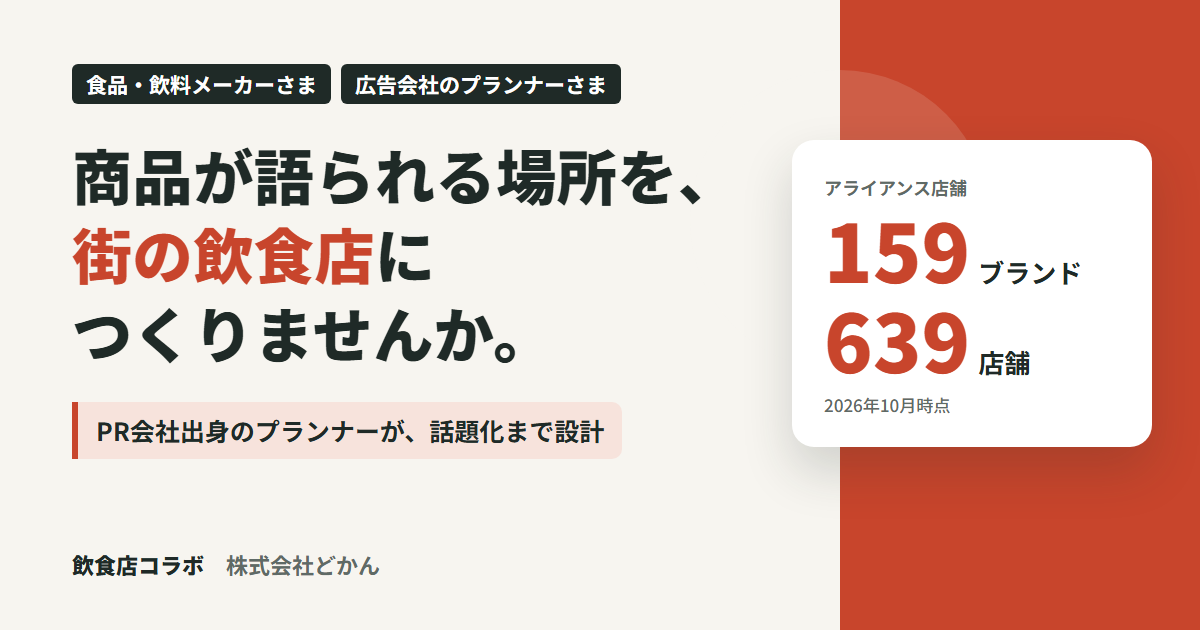
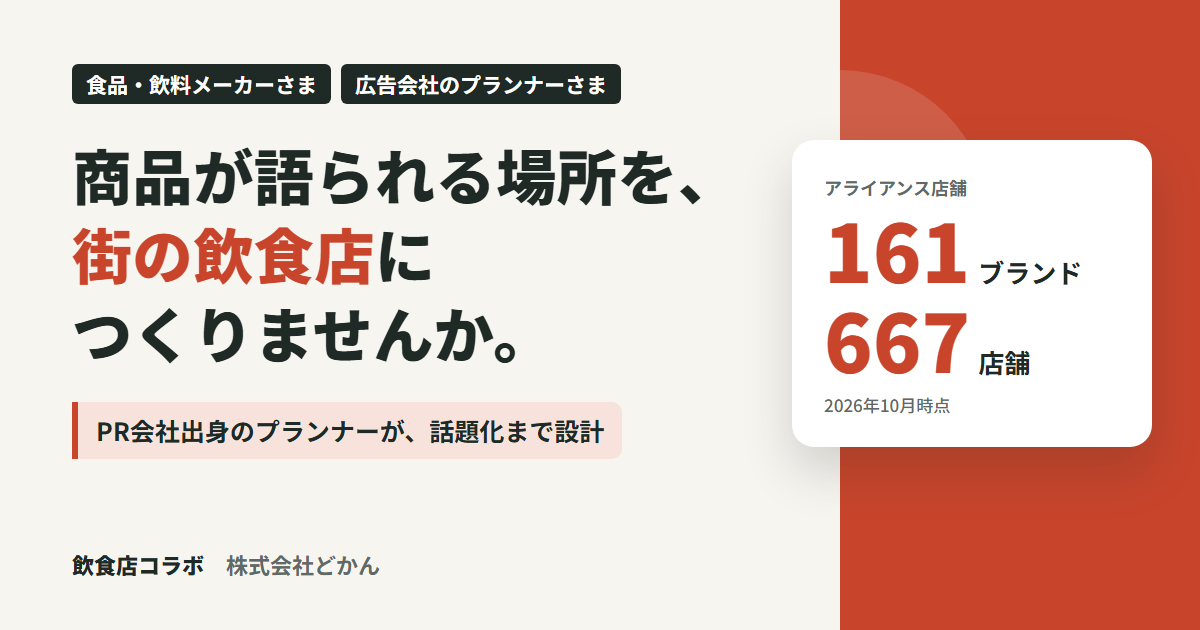
企業・広告会社向けLP：店舗数を最新（161ブランド・667店舗）に更新、日本一のハンバーガー店を店舗例に追加、OGP画像も差し替え

Changed region(s): [[0.7092, 0.4825, 0.8325, 0.6032], [0.7092, 0.3619, 0.8325, 0.4524]]

diff --git a/collabo/partner/index.html b/collabo/partner/index.html
@@ -5,20 +5,20 @@
 <meta name="viewport" content="width=device-width, initial-scale=1">
 <title>飲食店コラボのご案内（企業・広告会社のみなさまへ）｜株式会社どかん</title>
 <meta name="robots" content="noindex, nofollow, noarchive">
-<meta name="description" content="159ブランド・639店舗の飲食店ネットワークで、話題になるコラボメニューを。PR会社出身で、メディアやSNSでの話題づくりを熟知したプランナーが、店舗選びから企画、店舗との調整、発信までを設計します。">
+<meta name="description" content="161ブランド・667店舗の飲食店ネットワークで、話題になるコラボメニューを。PR会社出身で、メディアやSNSでの話題づくりを熟知したプランナーが、店舗選びから企画、店舗との調整、発信までを設計します。">
 <meta property="og:type" content="website">
 <meta property="og:site_name" content="株式会社どかん">
 <meta property="og:title" content="飲食店コラボのご案内（企業・広告会社のみなさまへ）｜株式会社どかん">
-<meta property="og:description" content="159ブランド・639店舗の飲食店ネットワークで、話題になるコラボメニューを。PR会社出身のプランナーが、企画から発信まで設計します。">
+<meta property="og:description" content="161ブランド・667店舗の飲食店ネットワークで、話題になるコラボメニューを。PR会社出身のプランナーが、企画から発信まで設計します。">
 <meta property="og:url" content="https://www.docaninc.com/collabo/partner/">
 <meta property="og:image" content="https://www.docaninc.com/collabo/partner/ogp.png">
 <meta property="og:image:width" content="1200">
 <meta property="og:image:height" content="630">
-<meta property="og:image:alt" content="商品が語られる場所を、街の飲食店につくりませんか。159ブランド・639店舗のアライアンス店舗。PR会社出身のプランナーが、話題化まで設計">
+<meta property="og:image:alt" content="商品が語られる場所を、街の飲食店につくりませんか。161ブランド・667店舗のアライアンス店舗。PR会社出身のプランナーが、話題化まで設計">
 <meta property="og:locale" content="ja_JP">
 <meta name="twitter:card" content="summary_large_image">
 <meta name="twitter:title" content="飲食店コラボのご案内（企業・広告会社のみなさまへ）｜株式会社どかん">
-<meta name="twitter:description" content="159ブランド・639店舗の飲食店ネットワークで、話題になるコラボメニューを。PR会社出身のプランナーが設計します。">
+<meta name="twitter:description" content="161ブランド・667店舗の飲食店ネットワークで、話題になるコラボメニューを。PR会社出身のプランナーが設計します。">
 <meta name="twitter:image" content="https://www.docaninc.com/collabo/partner/ogp.png">
 <link rel="icon" href="/favicon.ico" sizes="any">
 <link rel="icon" href="/favicon.png" type="image/png">
@@ -178,7 +178,7 @@
   .arrow span { font-size: 11px; font-weight: 700; text-align: center; line-height: 1.4; }
 
   /* shops */
-  .shop-grid { display: grid; grid-template-columns: repeat(4, 1fr); gap: 14px; }
+  .shop-grid { display: grid; grid-template-columns: repeat(3, 1fr); gap: 14px; }
   .shop { background: var(--bg); border: 1px solid var(--line); border-top: 4px solid var(--accent); border-radius: var(--radius); padding: 18px 18px 20px; }
   .shop-kind { display: inline-block; font-size: 12px; font-weight: 700; color: var(--sub); background: var(--sub-soft); padding: 2px 10px; border-radius: 999px; }
   .shop h3 { margin: 10px 0 0; font-size: 16px; line-height: 1.55; }
@@ -316,7 +316,7 @@
         <div class="for-whom"><span>食品・飲料メーカーさま</span><span>広告会社のプランナーさま</span></div>
         <h1><span class="nw">商品が語られる場所を、</span><br><span class="nw"><em>街の飲食店</em>に</span><span class="nw">つくりませんか。</span></h1>
         <p class="hero-planner"><b>PR会社出身で、メディアやSNSでの話題づくりを熟知したプランナー</b>が設計します。</p>
-        <p>どかんは、159ブランド・639店舗の飲食店とアライアンスを組んでいます。コラボメニューで商品を「食べて体験できる」形にし、店舗選びから企画、店舗との調整、メディア・SNSでの発信までをまとめてお引き受けします。</p>
+        <p>どかんは、161ブランド・667店舗の飲食店とアライアンスを組んでいます。コラボメニューで商品を「食べて体験できる」形にし、店舗選びから企画、店舗との調整、メディア・SNSでの発信までをまとめてお引き受けします。</p>
         <div class="hero-actions">
           <a class="btn" href="#contact">相談してみる</a>
           <a class="btn ghost" href="#how">しくみを見る</a>
@@ -324,8 +324,8 @@
       </div>
       <div class="stat-card" aria-label="アライアンス店舗の規模">
         <div class="label">アライアンスを組んでいる飲食店</div>
-        <div class="stat-row"><b>159</b><span>ブランド</span></div>
-        <div class="stat-row"><b>639</b><span>店舗</span></div>
+        <div class="stat-row"><b>161</b><span>ブランド</span></div>
+        <div class="stat-row"><b>667</b><span>店舗</span></div>
         <p class="stat-note">2026年10月時点。2,000店舗に向けて拡大中</p>
         <hr>
         <div class="label">業態の例</div>
@@ -404,6 +404,7 @@
       <div class="shop-grid">
         <div class="shop"><span class="shop-kind">レストラン</span><h3>有名シェフがプロデュースするお店</h3></div>
         <div class="shop"><span class="shop-kind">ラーメン</span><h3>1か月に約6万人が来店するラーメン店</h3></div>
+        <div class="shop"><span class="shop-kind">ハンバーガー</span><h3>日本一に輝いたことのある、約30店舗のハンバーガー店</h3></div>
         <div class="shop"><span class="shop-kind">お好み焼き</span><h3>有名お好み焼きチェーン</h3></div>
         <div class="shop"><span class="shop-kind">スイーツ</span><h3>若年層に人気のアイスクリーム店</h3></div>
         <div class="shop"><span class="shop-kind">おにぎり</span><h3>1日に3,000人が訪れることもあるおにぎり店</h3></div>
@@ -456,7 +457,7 @@
         </div>
         <div class="reason">
           <div class="num">2</div>
-          <h3>159ブランド・639店舗から、合うお店を選べる</h3>
+          <h3>161ブランド・667店舗から、合うお店を選べる</h3>
           <p>カフェからラーメン、居酒屋まで、さまざまな業態の飲食店とアライアンスを組んでいます。商品やねらう客層、エリアに合わせてお店をご提案します。</p>
         </div>
         <div class="reason">
